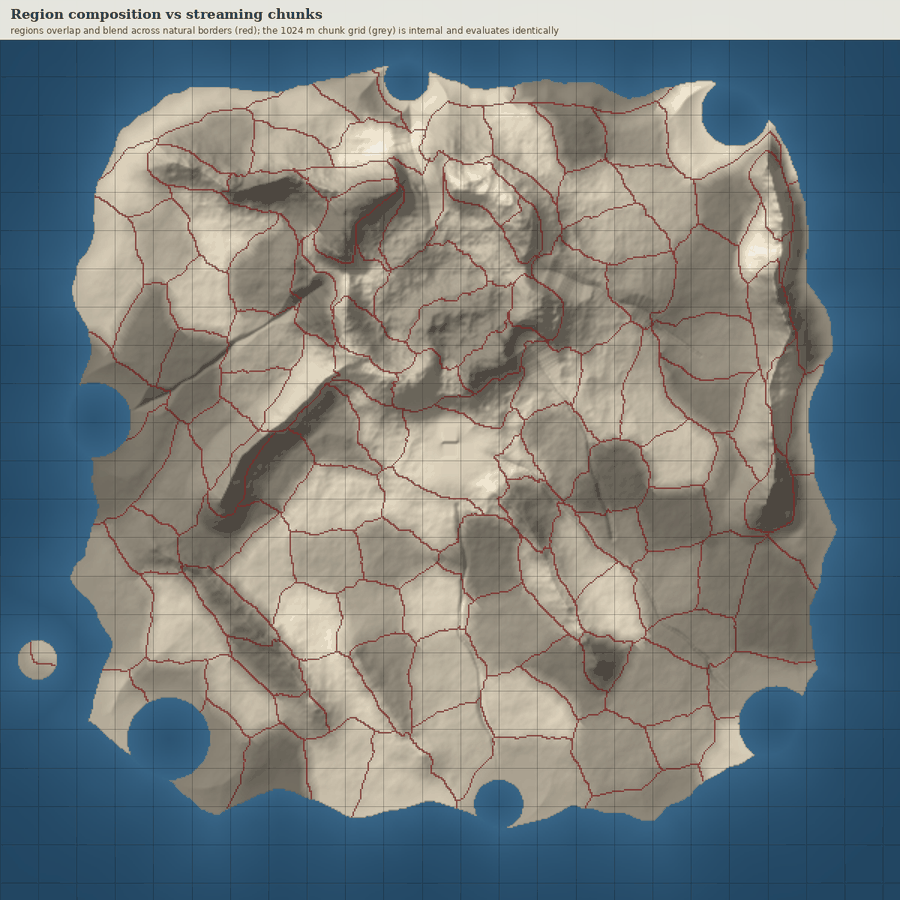
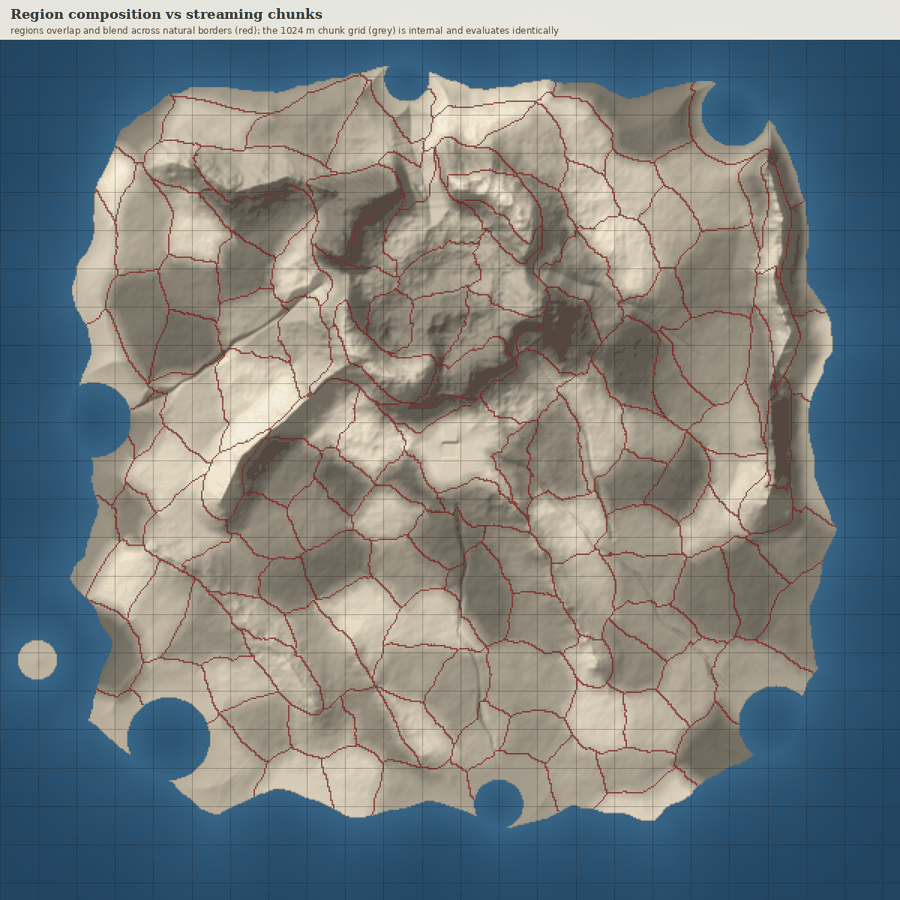
Seed about 150 natural regions and tidy the world map

diff --git a/content/world/authoring/atlas.py b/content/world/authoring/atlas.py
@@ -1304,10 +1304,14 @@ def render(b, out: Path, previews: Path | None):
         canvas.save(out / f"{name}.png")
         if previews is not None:
             previews.mkdir(parents=True, exist_ok=True)
-            img = canvas.img
-            if name not in ("world-map", "greyhaven-context"):
+            img = canvas.img.convert("RGB")
+            if name == "world-map":
+                # the map's legend and kingdom colours must survive, so it keeps full colour as a JPEG
+                img.save(previews / f"{name}.jpg", quality=86, optimize=True)
+                continue
+            if name != "greyhaven-context":
                 img = img.resize((img.width * 3 // 4, img.height * 3 // 4), Image.Resampling.LANCZOS)
-            img.convert("RGB").quantize(colors=192, method=Image.Quantize.MEDIANCUT, dither=Image.Dither.NONE).save(
+            img.quantize(colors=192, method=Image.Quantize.MEDIANCUT, dither=Image.Dither.NONE).save(
                 previews / f"{name}.png", optimize=True)
     return sorted(files)
 
@@ -1368,7 +1372,10 @@ def world_map(b):
             continue
         else:
             c.d.ellipse([px - 5, py - 5, px + 5, py + 5], fill=(40, 30, 30), outline=(250, 246, 236), width=2)
-            c.label(x, z - 280, s["name"], size=13)
+            if s["kind"] == "fort":
+                c.label(x + 160, z + 120, s["name"], size=12, anchor="lm")
+            else:
+                c.label(x, z - 280, s["name"], size=13)
     c.anchor_outline(colour=(200, 40, 30, 255))
     c.label(900, 380, "Greyhaven", size=15, fill=(170, 30, 20), bold=True, anchor="lm")
     # kingdom names at the area-weighted centre of their regions
@@ -1377,6 +1384,12 @@ def world_map(b):
         w = np.array([b["region_stats"][i]["areaKm2"] for i in owned])
         xy = np.array([b["region_stats"][i]["centroid"] for i in owned], float)
         x, z = (xy * w[:, None]).sum(0) / w.sum()
+        # step off any settlement or landform label the name would cover
+        others = [s["at"] for s in pol["settlements"]] + [r["points"][len(r["points"]) // 2] for r in layers["terrain"]["ridges"]]
+        for _ in range(6):
+            if all(abs(x - ox) > 2000 or abs(z - oz) > 450 for ox, oz in others):
+                break
+            z += 500
         c.label(x, z, k["name"].upper(), size=24, fill=tuple(int(v * 0.55) for v in hex_rgb(k["color"])), bold=True)
     c.label(crown["center"][0], crown["center"][1] + 1500, "THE SHATTERED CROWN", size=20, fill=(60, 50, 60), bold=True)
     for river in layers["water"]["rivers"]:
